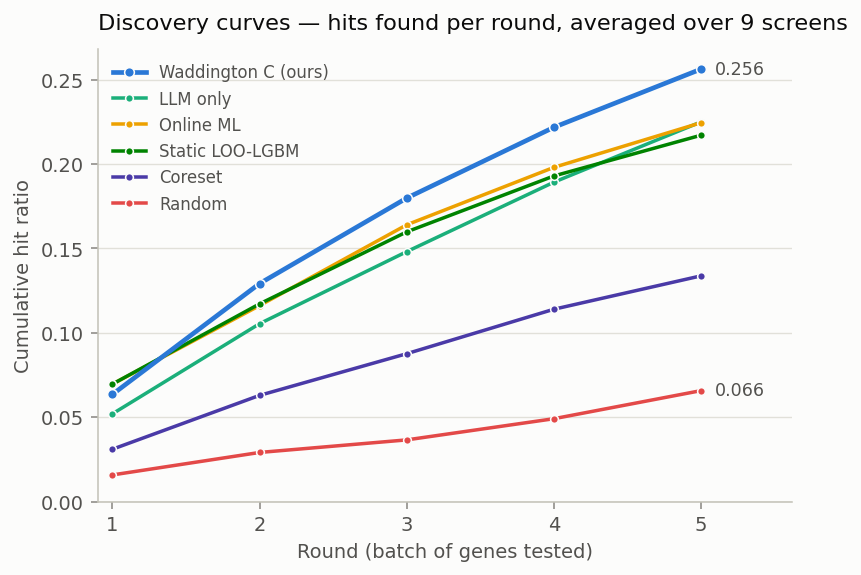
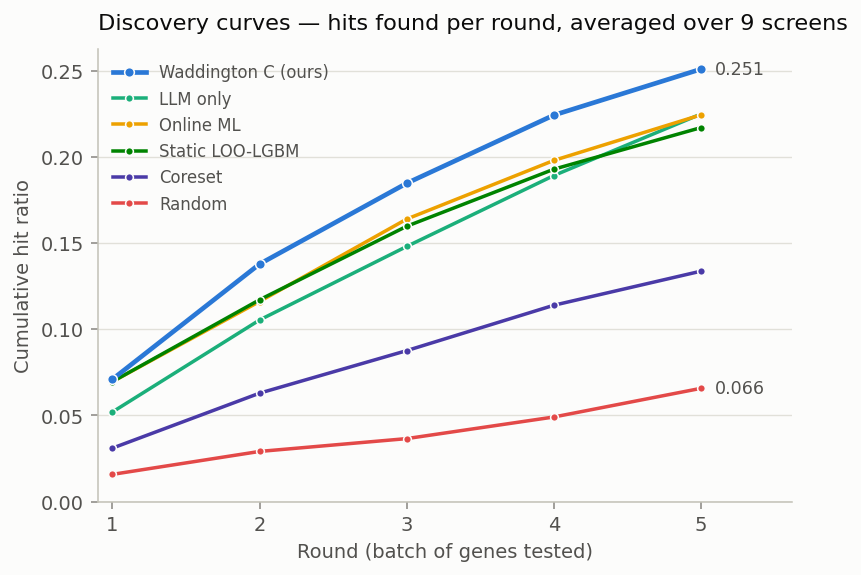
Reviewer v5 #5: regenerate principal figures 1-3 with the final 5-seed Waddington (0.251)
data.load_methods(final=True) swaps the waddington_c series for the leakage-free 5-seed run; discovery
curves / method comparison / heatmap now depict the final system (0.251), not legacy 0.256. The ablation
figure keeps the legacy waddington_c reference (its variants are legacy runs).

diff --git a/waddington_select/analysis/data.py b/waddington_select/analysis/data.py
@@ -14,6 +14,9 @@ import pandas as pd
 
 REPO_ROOT = Path(__file__).resolve().parents[2]
 RESULTS = REPO_ROOT / "workspace" / "results" / "sequential"
+# The final leakage-free 5-seed Waddington run (used for the principal figures 1-3); the legacy
+# three_arm.json waddington_c stays the reference for the component-ablation figure.
+FINAL_WADD = REPO_ROOT / "workspace" / "results" / "router" / "clean_headline_w0.2_5seed.json"
 
 # Which file each method's runs live in (baselines + the three-arm comparison).
 METHOD_FILES = {
@@ -55,8 +58,12 @@ def _runs(path: Path) -> pd.DataFrame:
     return pd.DataFrame(rows)
 
 
-def load_methods() -> pd.DataFrame:
-    """All six methods, tidy. (Coreset appears in two files; keep the baselines copy.)"""
+def load_methods(final: bool = False) -> pd.DataFrame:
+    """All six methods, tidy. (Coreset appears in two files; keep the baselines copy.)
+
+    final=True swaps the `waddington_c` rows for the final leakage-free 5-seed run (for the principal
+    figures); the baselines are unchanged and already 5-seed.
+    """
     frames = []
     for path in sorted({f for f in METHOD_FILES.values()}):
         p = RESULTS / path
@@ -70,7 +77,12 @@ def load_methods() -> pd.DataFrame:
         if not sub.empty:
             # a method may appear in >1 file — take the first file that has it, consistently
             out.append(sub.drop_duplicates(["dataset", "seed", "round"]))
-    return pd.concat(out, ignore_index=True)
+    result = pd.concat(out, ignore_index=True)
+    if final and FINAL_WADD.exists():
+        fw = _runs(FINAL_WADD)
+        fw = fw[fw["arm"] == "waddington_c"]
+        result = pd.concat([result[result["arm"] != "waddington_c"], fw], ignore_index=True)
+    return result
 
 
 def final_round(df: pd.DataFrame) -> pd.DataFrame:

diff --git a/waddington_select/analysis/figures.py b/waddington_select/analysis/figures.py
@@ -35,7 +35,7 @@ def discovery_curves(out: Path) -> Path:
     live in the comparison bars. Endpoint labels are selective (hero + floor) to avoid a collision
     where three methods converge around 0.22.
     """
-    df = D.load_methods()
+    df = D.load_methods(final=True)
     S.apply()
     fig, ax = plt.subplots(figsize=(6.4, 4.2))
 
@@ -72,7 +72,7 @@ def discovery_curves(out: Path) -> Path:
 
 def method_comparison(out: Path) -> Path:
     """Magnitude, one entity per bar → a single hue + direct value labels."""
-    means = D.method_means(D.load_methods())
+    means = D.method_means(D.load_methods(final=True))
     S.apply()
     fig, ax = plt.subplots(figsize=(6.4, 3.6))
 
@@ -94,7 +94,7 @@ def method_comparison(out: Path) -> Path:
 
 def dataset_heatmap(out: Path) -> Path:
     """Magnitude across two keys → sequential single-hue ramp, with values written in."""
-    df = D.load_methods()
+    df = D.load_methods(final=True)
     fr = D.final_round(df)
     m = fr.groupby(["arm", "dataset"])["hit_ratio"].mean().unstack()
     m = m.reindex([a for a in S.METHOD_ORDER if a in m.index])
